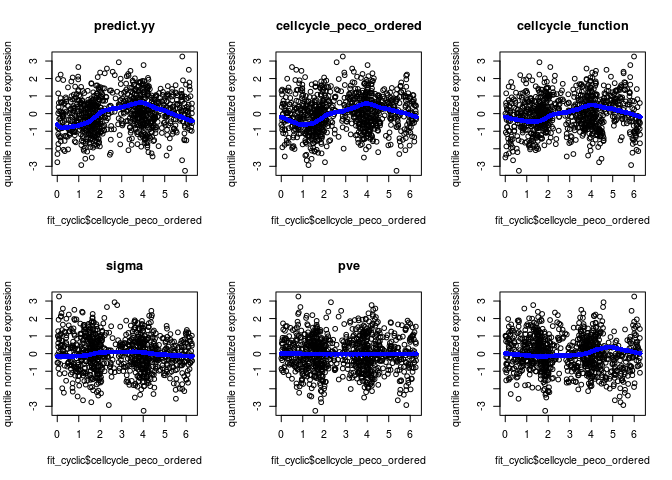
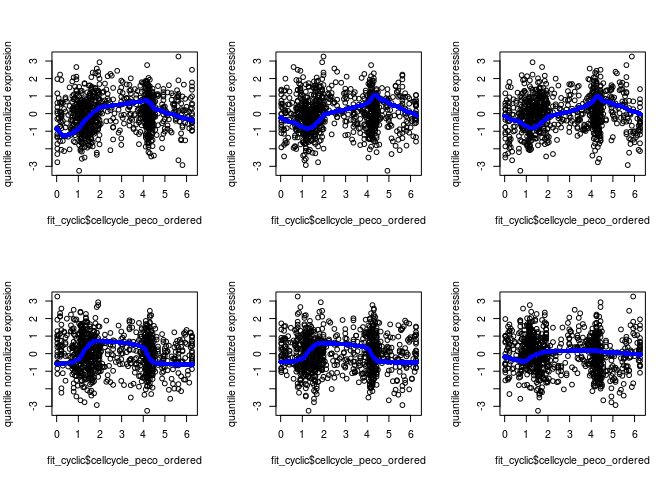
update readme

diff --git a/README.md b/README.md
@@ -41,8 +41,10 @@ training data to predict cell cycle on a continuum.
 Our work demonstrated that peco is able to predict continuous cell cylce
 phase using a small set of cylcic genes: *CDK1*, *UBE2C*, *TOP2A*,
 *HISTH1E*, and *HISTH1C* (identified as cell cycle marker genes in
-studies of yeast (\[Spellman et al., 1998\]\[spellman\]) and HeLa cells
-(\[Whitfield et al., 2002\]\[whitfield\])).
+studies of yeast ([Spellman et
+al., 1998](https://www.ncbi.nlm.nih.gov/pmc/articles/PMC25624)) and HeLa
+cells ([Whitfield et
+al., 2002](https://www.ncbi.nlm.nih.gov/pmc/articles/PMC117619))).
 
 Below we provide two use cases. Vignette 1 shows how to use the
 built-training dataset to predict continuous cell cycle. Vignette 2
@@ -51,9 +53,7 @@ data.
 
 Users can also view the vigenettes via `browseVignettes("peco")`.
 
-## Vignette
-
-### Training data
+## About the training dataset
 
 `training_human` stores built-in training data of 101 significant cyclic
 genes. Below are the slots contained in `training_human`:
@@ -73,6 +73,8 @@ genes. Below are the slots contained in `training_human`:
 ``` r
 data("training_human")
 ```
+
+## Predict cell cycle phase using gene expression data
 
 `peco` is integrated with `SingleCellExperiment` object in Bioconductor.
 Below shows an example of inputting `SingleCellExperiment` object to
@@ -106,12 +108,10 @@ assays(sce_top101genes)
     ## List of length 3
     ## names(3): counts cpm cpm_quantNormed
 
-### Predict cell cycle phase
-
 Apply the prediction model using function `cycle_npreg_outsample`.
 
 ``` r
-model_101genes_predict <- cycle_npreg_outsample(
+sce_top101genes <- cycle_npreg_outsample(
     Y_test=sce_top101genes,
     sigma_est=training_human$sigma[rownames(sce_top101genes),],
     funs_est=training_human$cellcycle_function[rownames(sce_top101genes)],
@@ -120,15 +120,15 @@ model_101genes_predict <- cycle_npreg_outsample(
     get_trend_estimates=FALSE)
 ```
 
-`peco` adds the predict cell cycle phase to the `colData` slot.
-sce\_top101genes
+`peco` adds the predict cell cycle phase to the `colData` slot of
+sce\_top101genes.
 
 ``` r
-head(colData(model_101genes_predict)$cellcycle_peco)
+head(colData(sce_top101genes)$cellcycle_peco)
 ```
 
     ## 20170905-A01 20170905-A02 20170905-A03 20170905-A06 20170905-A07 
-    ##     1.099557     4.680973     2.670354     4.303982     4.052655 
+    ##     1.099557     4.680973     2.607522     4.303982     4.052655 
     ## 20170905-A08 
     ##     1.413717
 
@@ -148,14 +148,14 @@ points(y=training_human$cellcycle_function[["ENSG00000170312"]](seq(0,2*pi, leng
 
 ![](README_files/figure-gfm/unnamed-chunk-7-1.png)<!-- -->
 
-### Visualize cyclic expression trend
+## Visualize cyclic expression trend based on predicted phase
 
 Visualize results of prediction for the top 10 genesone genes. Use
 `fit_cyclical_many` to estimate cyclic function based on the input data.
 
 ``` r
 # predicted cell time in the input data
-theta_predict = colData(sce_top101genes)$theta_shifted
+theta_predict = colData(sce_top101genes)$cellcycle_peco
 names(theta_predict) = rownames(colData(sce_top101genes))
 
 # expression values of 10 genes in the input data
@@ -169,10 +169,13 @@ fit_cyclic <- fit_cyclical_many(Y=yy_input,
     ## computing on 2 cores
 
 ``` r
+gene_symbols = rowData(sce_top101genes)$hgnc[rownames(yy_input)]
+
 par(mfrow=c(2,3))
 for (i in 1:6) {
 plot(y=yy_input[i,],
-     x=fit_cyclic$cellcycle_peco_ordered, main = names(fit_cyclic)[i],
+     x=fit_cyclic$cellcycle_peco_ordered, 
+     main = gene_symbols[i],
      ylab = "quantile normalized expression")
 points(y=fit_cyclic$cellcycle_function[[i]](seq(0,2*pi, length.out=100)),
        x=seq(0,2*pi, length.out=100), col = "blue", pch =16)
@@ -180,6 +183,73 @@ points(y=fit_cyclic$cellcycle_function[[i]](seq(0,2*pi, length.out=100)),
 ```
 
 ![](README_files/figure-gfm/unnamed-chunk-8-1.png)<!-- -->
+
+## Session information
+
+``` r
+sessionInfo()
+```
+
+    ## R version 3.6.1 (2019-07-05)
+    ## Platform: x86_64-pc-linux-gnu (64-bit)
+    ## Running under: Scientific Linux 7.4 (Nitrogen)
+    ## 
+    ## Matrix products: default
+    ## BLAS/LAPACK: /software/openblas-0.2.19-el7-x86_64/lib/libopenblas_haswellp-r0.2.19.so
+    ## 
+    ## locale:
+    ##  [1] LC_CTYPE=en_US.UTF-8       LC_NUMERIC=C              
+    ##  [3] LC_TIME=en_US.UTF-8        LC_COLLATE=en_US.UTF-8    
+    ##  [5] LC_MONETARY=en_US.UTF-8    LC_MESSAGES=en_US.UTF-8   
+    ##  [7] LC_PAPER=en_US.UTF-8       LC_NAME=C                 
+    ##  [9] LC_ADDRESS=C               LC_TELEPHONE=C            
+    ## [11] LC_MEASUREMENT=en_US.UTF-8 LC_IDENTIFICATION=C       
+    ## 
+    ## attached base packages:
+    ## [1] parallel  stats4    stats     graphics  grDevices utils     datasets 
+    ## [8] methods   base     
+    ## 
+    ## other attached packages:
+    ##  [1] doParallel_1.0.15           iterators_1.0.12           
+    ##  [3] foreach_1.4.7               SingleCellExperiment_1.6.0 
+    ##  [5] SummarizedExperiment_1.14.1 DelayedArray_0.10.0        
+    ##  [7] BiocParallel_1.18.1         matrixStats_0.55.0         
+    ##  [9] Biobase_2.44.0              GenomicRanges_1.36.1       
+    ## [11] GenomeInfoDb_1.20.0         IRanges_2.18.3             
+    ## [13] S4Vectors_0.22.1            BiocGenerics_0.30.0        
+    ## [15] peco_0.99.6                 rmarkdown_1.13             
+    ## 
+    ## loaded via a namespace (and not attached):
+    ##  [1] Rcpp_1.0.3               rsvd_1.0.2              
+    ##  [3] mvtnorm_1.0-11           lattice_0.20-38         
+    ##  [5] assertthat_0.2.1         digest_0.6.22           
+    ##  [7] R6_2.4.0                 genlasso_1.4            
+    ##  [9] evaluate_0.14            pracma_2.2.9            
+    ## [11] ggplot2_3.2.1            pillar_1.4.2            
+    ## [13] zlibbioc_1.30.0          rlang_0.4.1             
+    ## [15] lazyeval_0.2.2           irlba_2.3.3             
+    ## [17] Matrix_1.2-18            BiocNeighbors_1.2.0     
+    ## [19] geigen_2.3               stringr_1.4.0           
+    ## [21] igraph_1.2.4.1           RCurl_1.95-4.12         
+    ## [23] munsell_0.5.0            vipor_0.4.5             
+    ## [25] compiler_3.6.1           BiocSingular_1.0.0      
+    ## [27] xfun_0.8                 pkgconfig_2.0.3         
+    ## [29] ggbeeswarm_0.6.0         htmltools_0.3.6         
+    ## [31] tidyselect_0.2.5         gridExtra_2.3           
+    ## [33] tibble_2.1.3             GenomeInfoDbData_1.2.1  
+    ## [35] codetools_0.2-16         viridisLite_0.3.0       
+    ## [37] crayon_1.3.4             dplyr_0.8.3             
+    ## [39] MASS_7.3-51.4            bitops_1.0-6            
+    ## [41] grid_3.6.1               gtable_0.3.0            
+    ## [43] lifecycle_0.1.0          magrittr_1.5            
+    ## [45] scales_1.1.0             stringi_1.4.3           
+    ## [47] XVector_0.24.0           viridis_0.5.1           
+    ## [49] scater_1.12.2            DelayedMatrixStats_1.6.1
+    ## [51] boot_1.3-23              tools_3.6.1             
+    ## [53] beeswarm_0.2.3           glue_1.3.1              
+    ## [55] purrr_0.3.3              yaml_2.2.0              
+    ## [57] colorspace_1.4-1         circular_0.4-93         
+    ## [59] conicfit_1.0.4           knitr_1.23
 
 -----
 
